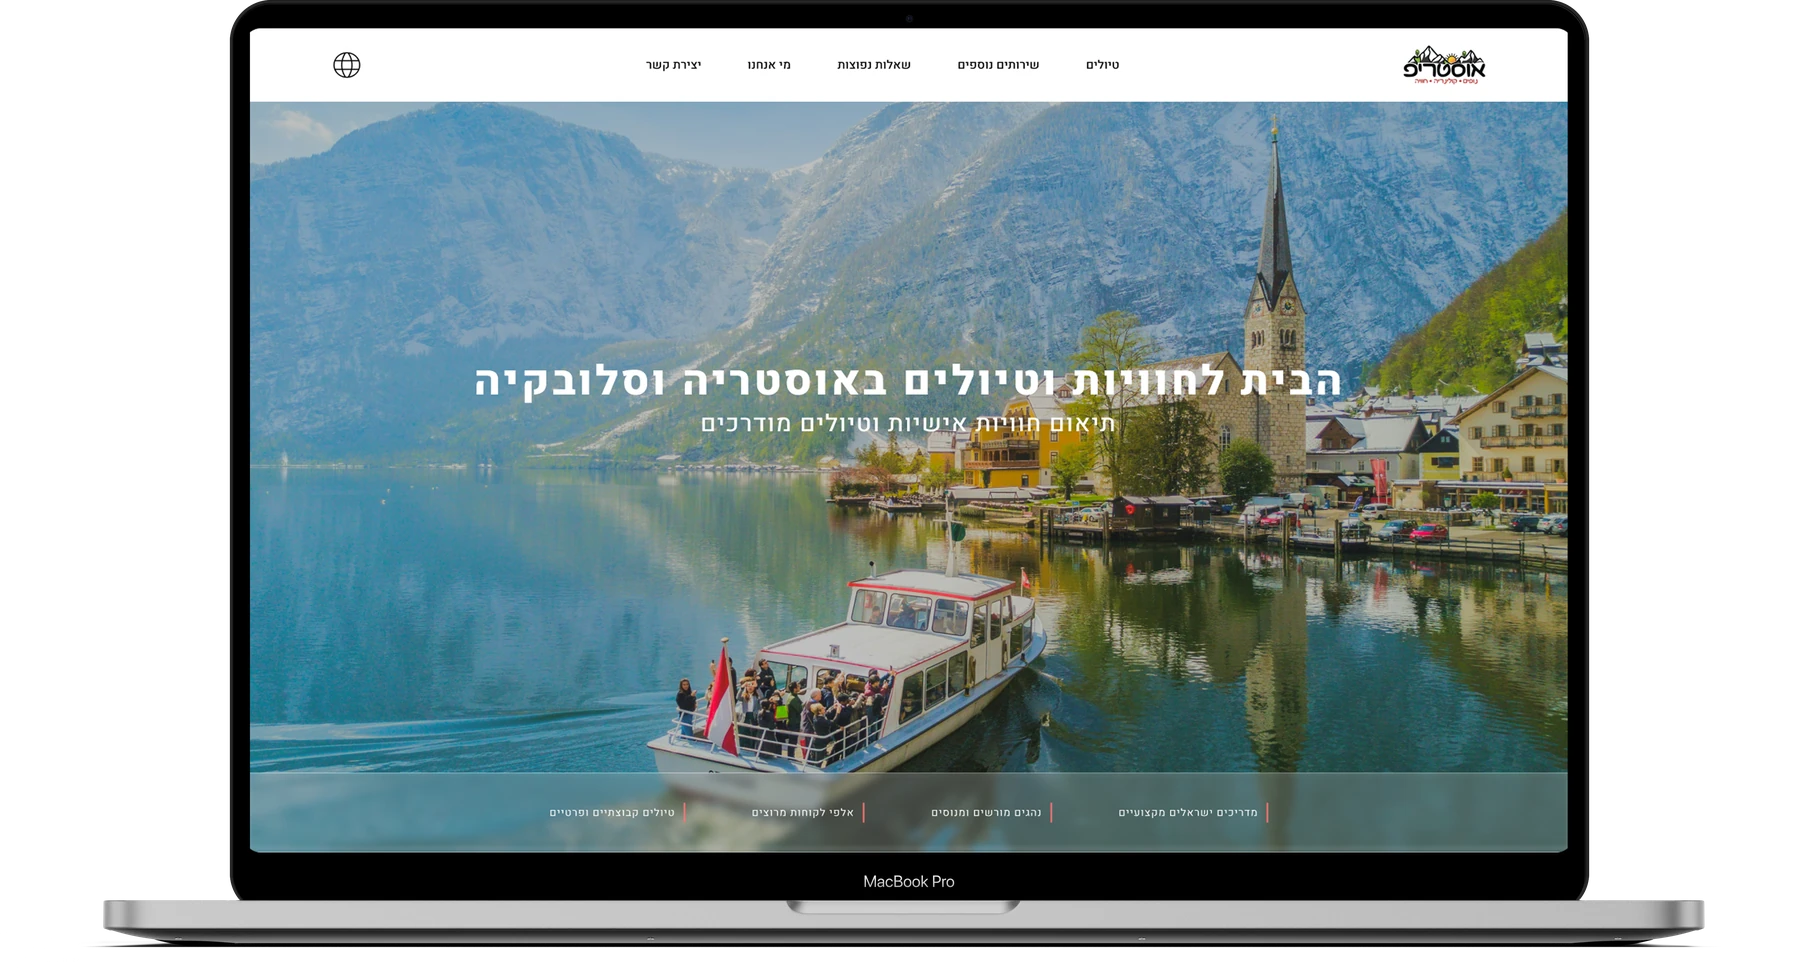
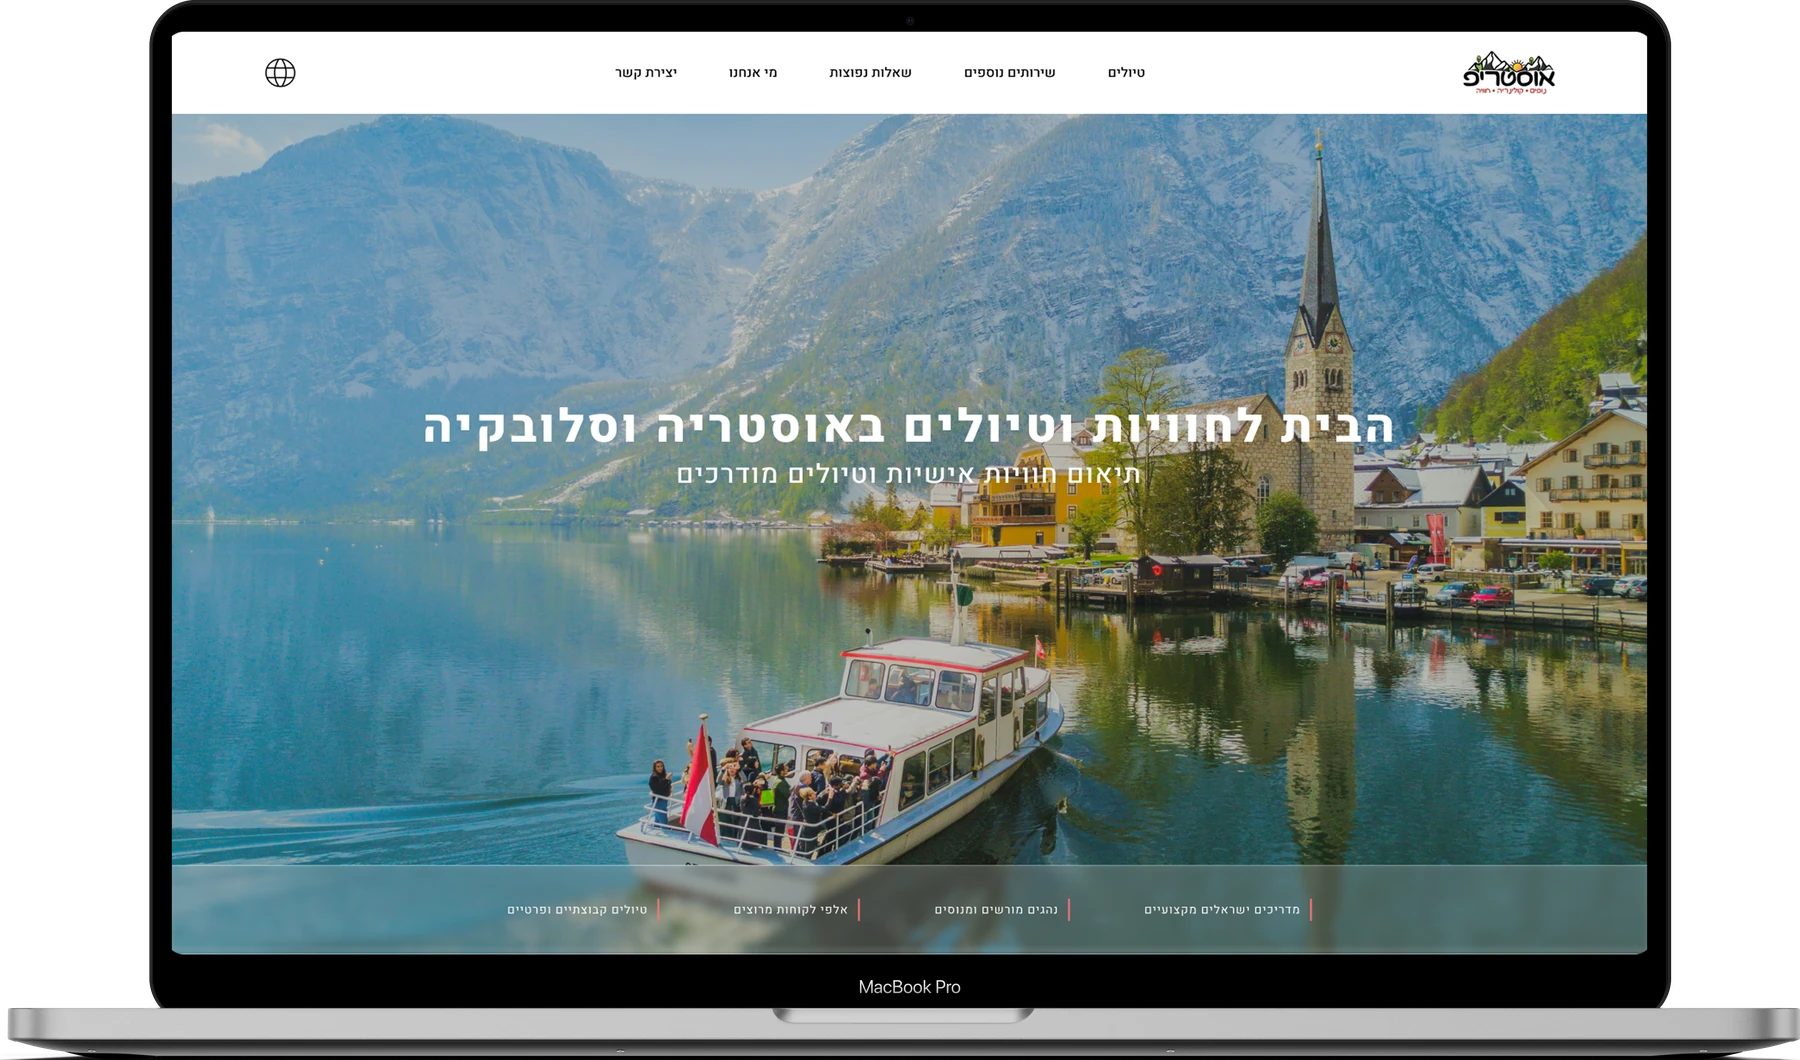
Remove border from mockup thumbnails, crop Austrip mockup tighter so the laptop fills its card like the iPhones do

diff --git a/style.css b/style.css
@@ -218,7 +218,7 @@ section{ padding:70px 0; }
 a.project:hover{ transform:translate(-3px,-3px); box-shadow:8px 8px 0 var(--ink); }
 .project-cover{ flex-shrink:0; padding:16px 16px 0; }
 .project-cover .thumb{ aspect-ratio:4/3; }
-.project-cover .thumb.thumb-wide{ aspect-ratio:16/10.5; }
+.project-cover .thumb.thumb-wide{ aspect-ratio:1.7; }
 .project-body{ padding:26px 30px; display:flex; flex-direction:column; flex:1; }
 .project .tags{ display:flex; gap:6px; flex-wrap:wrap; margin-bottom:16px; }
 .tag-pill{
@@ -237,7 +237,7 @@ a.project:hover{ transform:translate(-3px,-3px); box-shadow:8px 8px 0 var(--ink)
 .thumb .ph-label{ color:var(--ink); opacity:0.42; font-size:12.5px; }
 .thumb > img{ width:100%; height:100%; object-fit:cover; display:block; }
 .thumb-tall{ aspect-ratio:16/9; margin-bottom:20px; }
-.thumb-plain{ background-image:none; background-color:var(--thumb); }
+.thumb-plain{ background-image:none; background-color:var(--thumb); border:none; }
 
 .project-cover-img{ width:100%; height:100%; object-fit:cover; object-position:top; }
 .project-cover-img.mockup-contain{ object-fit:contain; padding:10px; }

diff --git a/index.html b/index.html
@@ -14,7 +14,7 @@
 <link rel="preconnect" href="https://fonts.gstatic.com" crossorigin>
 <link href="https://fonts.googleapis.com/css2?family=Inter:wght@300;400;500;600&display=swap" rel="stylesheet">
 <link rel="icon" href="favicon.svg" type="image/svg+xml">
-<link rel="stylesheet" href="style.css?v=71">
+<link rel="stylesheet" href="style.css?v=72">
 <script type="application/ld+json">
 {
   "@context": "https://schema.org",
@@ -205,7 +205,7 @@
   <a href="resume.pdf" target="_blank" rel="noopener" class="cv-link" onclick="closeMobileNav()">Resume <svg class="cv-arrow" viewBox="0 0 24 24" width="13" height="13" fill="none" xmlns="http://www.w3.org/2000/svg"><path d="M7 17L17 7M9 7h8v8" stroke="currentColor" stroke-width="2.3" stroke-linecap="round" stroke-linejoin="round"/></svg></a>
 </nav>
 
-<script src="script.js?v=71"></script>
+<script src="script.js?v=72"></script>
 
 </body>
 </html>

diff --git a/work-filmroll.html b/work-filmroll.html
@@ -10,7 +10,7 @@
 <link href="https://fonts.googleapis.com/css2?family=Inter:wght@300;400;500;600&display=swap" rel="stylesheet">
 <link rel="canonical" href="https://maorcohenfalah.com/work-filmroll.html">
 <link rel="icon" href="favicon.svg" type="image/svg+xml">
-<link rel="stylesheet" href="style.css?v=71">
+<link rel="stylesheet" href="style.css?v=72">
 </head>
 <body>
 
@@ -166,7 +166,7 @@
   <a href="resume.pdf" target="_blank" rel="noopener" class="cv-link" onclick="closeMobileNav()">Resume <svg class="cv-arrow" viewBox="0 0 24 24" width="13" height="13" fill="none" xmlns="http://www.w3.org/2000/svg"><path d="M7 17L17 7M9 7h8v8" stroke="currentColor" stroke-width="2.3" stroke-linecap="round" stroke-linejoin="round"/></svg></a>
 </nav>
 
-<script src="script.js?v=71"></script>
+<script src="script.js?v=72"></script>
 
 </body>
 </html>

diff --git a/work-austrip.html b/work-austrip.html
@@ -10,7 +10,7 @@
 <link href="https://fonts.googleapis.com/css2?family=Inter:wght@300;400;500;600&display=swap" rel="stylesheet">
 <link rel="canonical" href="https://maorcohenfalah.com/work-austrip.html">
 <link rel="icon" href="favicon.svg" type="image/svg+xml">
-<link rel="stylesheet" href="style.css?v=71">
+<link rel="stylesheet" href="style.css?v=72">
 </head>
 <body>
 
@@ -216,7 +216,7 @@
   <a href="resume.pdf" target="_blank" rel="noopener" class="cv-link" onclick="closeMobileNav()">Resume <svg class="cv-arrow" viewBox="0 0 24 24" width="13" height="13" fill="none" xmlns="http://www.w3.org/2000/svg"><path d="M7 17L17 7M9 7h8v8" stroke="currentColor" stroke-width="2.3" stroke-linecap="round" stroke-linejoin="round"/></svg></a>
 </nav>
 
-<script src="script.js?v=71"></script>
+<script src="script.js?v=72"></script>
 
 </body>
 </html>

diff --git a/playground.html b/playground.html
@@ -10,7 +10,7 @@
 <link href="https://fonts.googleapis.com/css2?family=Inter:wght@300;400;500;600&display=swap" rel="stylesheet">
 <link rel="canonical" href="https://maorcohenfalah.com/playground.html">
 <link rel="icon" href="favicon.svg" type="image/svg+xml">
-<link rel="stylesheet" href="style.css?v=71">
+<link rel="stylesheet" href="style.css?v=72">
 </head>
 <body>
 
@@ -175,7 +175,7 @@
   <a href="resume.pdf" target="_blank" rel="noopener" class="cv-link" onclick="closeMobileNav()">Resume <svg class="cv-arrow" viewBox="0 0 24 24" width="13" height="13" fill="none" xmlns="http://www.w3.org/2000/svg"><path d="M7 17L17 7M9 7h8v8" stroke="currentColor" stroke-width="2.3" stroke-linecap="round" stroke-linejoin="round"/></svg></a>
 </nav>
 
-<script src="script.js?v=71"></script>
+<script src="script.js?v=72"></script>
 
 </body>
 </html>

diff --git a/about.html b/about.html
@@ -10,7 +10,7 @@
 <link href="https://fonts.googleapis.com/css2?family=Inter:wght@300;400;500;600&display=swap" rel="stylesheet">
 <link rel="canonical" href="https://maorcohenfalah.com/about.html">
 <link rel="icon" href="favicon.svg" type="image/svg+xml">
-<link rel="stylesheet" href="style.css?v=71">
+<link rel="stylesheet" href="style.css?v=72">
 </head>
 <body>
 
@@ -101,7 +101,7 @@
   <a href="resume.pdf" target="_blank" rel="noopener" class="cv-link" onclick="closeMobileNav()">Resume <svg class="cv-arrow" viewBox="0 0 24 24" width="13" height="13" fill="none" xmlns="http://www.w3.org/2000/svg"><path d="M7 17L17 7M9 7h8v8" stroke="currentColor" stroke-width="2.3" stroke-linecap="round" stroke-linejoin="round"/></svg></a>
 </nav>
 
-<script src="script.js?v=71"></script>
+<script src="script.js?v=72"></script>
 
 </body>
 </html>

diff --git a/work-funnels.html b/work-funnels.html
@@ -9,7 +9,7 @@
 <link rel="preconnect" href="https://fonts.gstatic.com" crossorigin>
 <link href="https://fonts.googleapis.com/css2?family=Inter:wght@300;400;500;600&display=swap" rel="stylesheet">
 <link rel="icon" href="favicon.svg" type="image/svg+xml">
-<link rel="stylesheet" href="style.css?v=71">
+<link rel="stylesheet" href="style.css?v=72">
 </head>
 <body>
 
@@ -94,7 +94,7 @@
   <a href="resume.pdf" target="_blank" rel="noopener" class="cv-link" onclick="closeMobileNav()">Resume <svg class="cv-arrow" viewBox="0 0 24 24" width="13" height="13" fill="none" xmlns="http://www.w3.org/2000/svg"><path d="M7 17L17 7M9 7h8v8" stroke="currentColor" stroke-width="2.3" stroke-linecap="round" stroke-linejoin="round"/></svg></a>
 </nav>
 
-<script src="script.js?v=71"></script>
+<script src="script.js?v=72"></script>
 
 </body>
 </html>

diff --git a/work-redesign.html b/work-redesign.html
@@ -9,7 +9,7 @@
 <link rel="preconnect" href="https://fonts.gstatic.com" crossorigin>
 <link href="https://fonts.googleapis.com/css2?family=Inter:wght@300;400;500;600&display=swap" rel="stylesheet">
 <link rel="icon" href="favicon.svg" type="image/svg+xml">
-<link rel="stylesheet" href="style.css?v=71">
+<link rel="stylesheet" href="style.css?v=72">
 </head>
 <body>
 
@@ -94,7 +94,7 @@
   <a href="resume.pdf" target="_blank" rel="noopener" class="cv-link" onclick="closeMobileNav()">Resume <svg class="cv-arrow" viewBox="0 0 24 24" width="13" height="13" fill="none" xmlns="http://www.w3.org/2000/svg"><path d="M7 17L17 7M9 7h8v8" stroke="currentColor" stroke-width="2.3" stroke-linecap="round" stroke-linejoin="round"/></svg></a>
 </nav>
 
-<script src="script.js?v=71"></script>
+<script src="script.js?v=72"></script>
 
 </body>
 </html>
